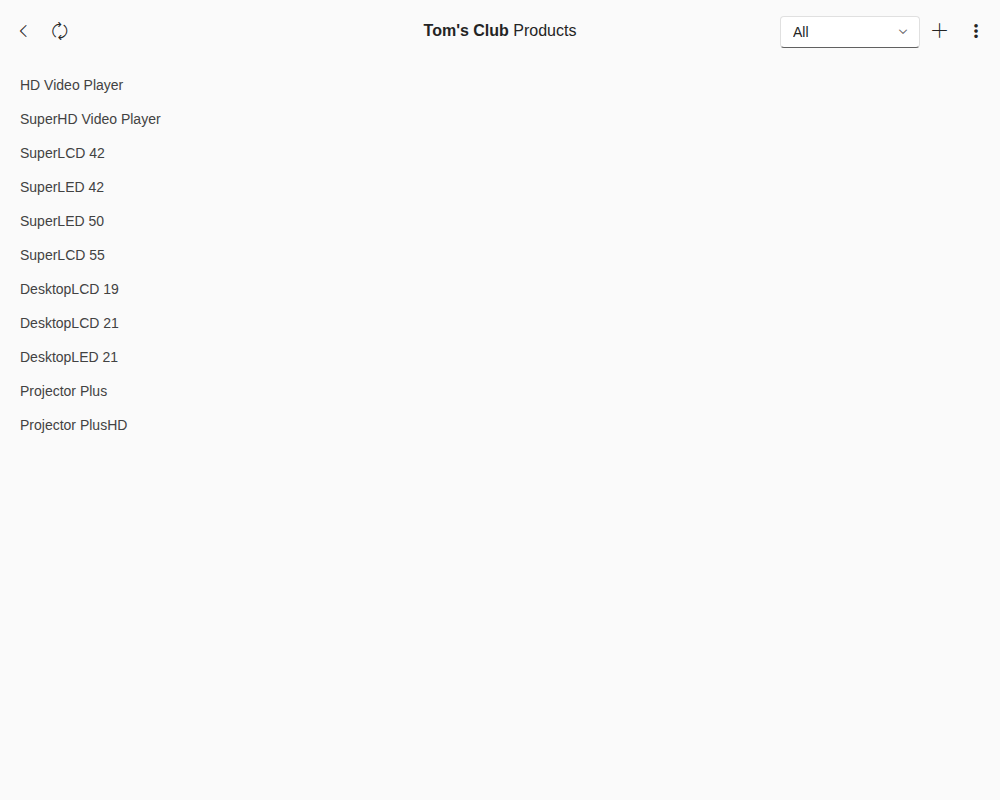
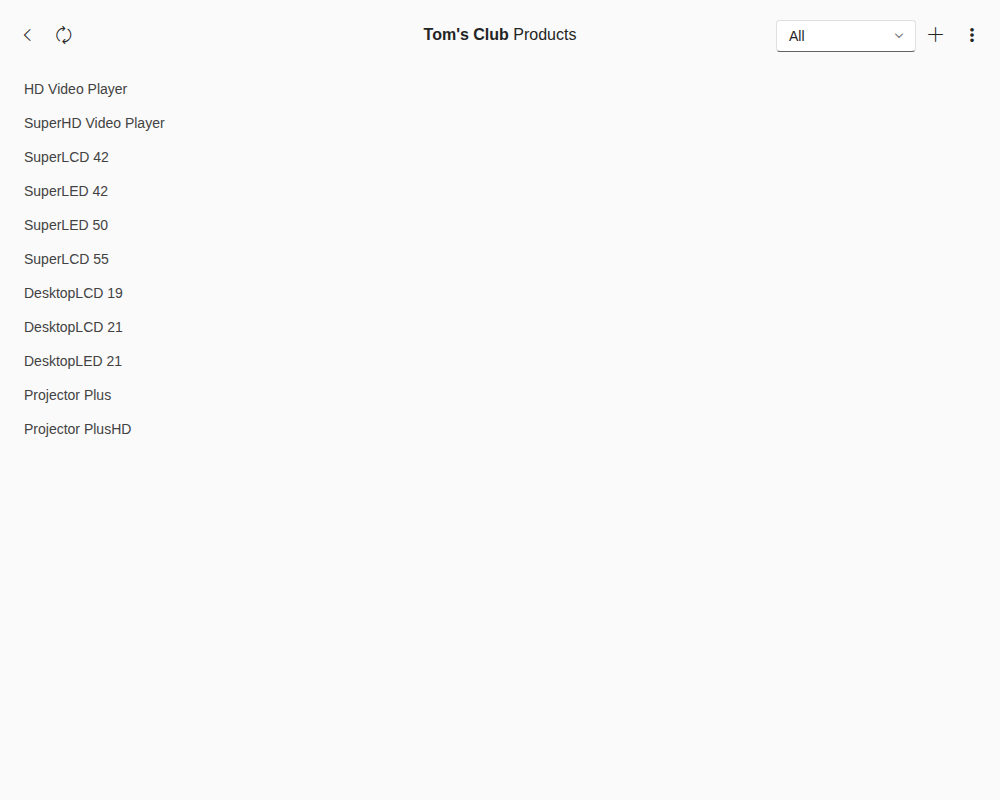
Toolbar Demo: fix paddings (#34808)

diff --git a/apps/demos/Demos/Toolbar/Overview/Vue/App.vue b/apps/demos/Demos/Toolbar/Overview/Vue/App.vue
@@ -110,6 +110,10 @@ const settingsButtonOptions = {
 };
 </script>
 <style>
+.demo-container {
+  padding: 4px;
+}
+
 .toolbar-label,
 .toolbar-label > b {
   font-size: 16px;

diff --git a/apps/demos/Demos/Toolbar/Overview/Angular/app/app.component.css b/apps/demos/Demos/Toolbar/Overview/Angular/app/app.component.css
@@ -1,3 +1,7 @@
+::ng-deep .demo-container {
+  padding: 4px;
+}
+
 ::ng-deep .toolbar-label,
 ::ng-deep .toolbar-label > b {
   font-size: 16px;

diff --git a/apps/demos/Demos/Toolbar/Overview/React/styles.css b/apps/demos/Demos/Toolbar/Overview/React/styles.css
@@ -1,3 +1,7 @@
+.demo-container {
+  padding: 4px;
+}
+
 .toolbar-label,
 .toolbar-label > b {
   font-size: 16px;

diff --git a/apps/demos/Demos/Toolbar/Overview/ReactJs/styles.css b/apps/demos/Demos/Toolbar/Overview/ReactJs/styles.css
@@ -1,3 +1,7 @@
+.demo-container {
+  padding: 4px;
+}
+
 .toolbar-label,
 .toolbar-label > b {
   font-size: 16px;

diff --git a/apps/demos/Demos/Toolbar/Overview/jQuery/styles.css b/apps/demos/Demos/Toolbar/Overview/jQuery/styles.css
@@ -1,3 +1,7 @@
+.demo-container {
+  padding: 4px;
+}
+
 .toolbar-label,
 .toolbar-label > b {
   font-size: 16px;
